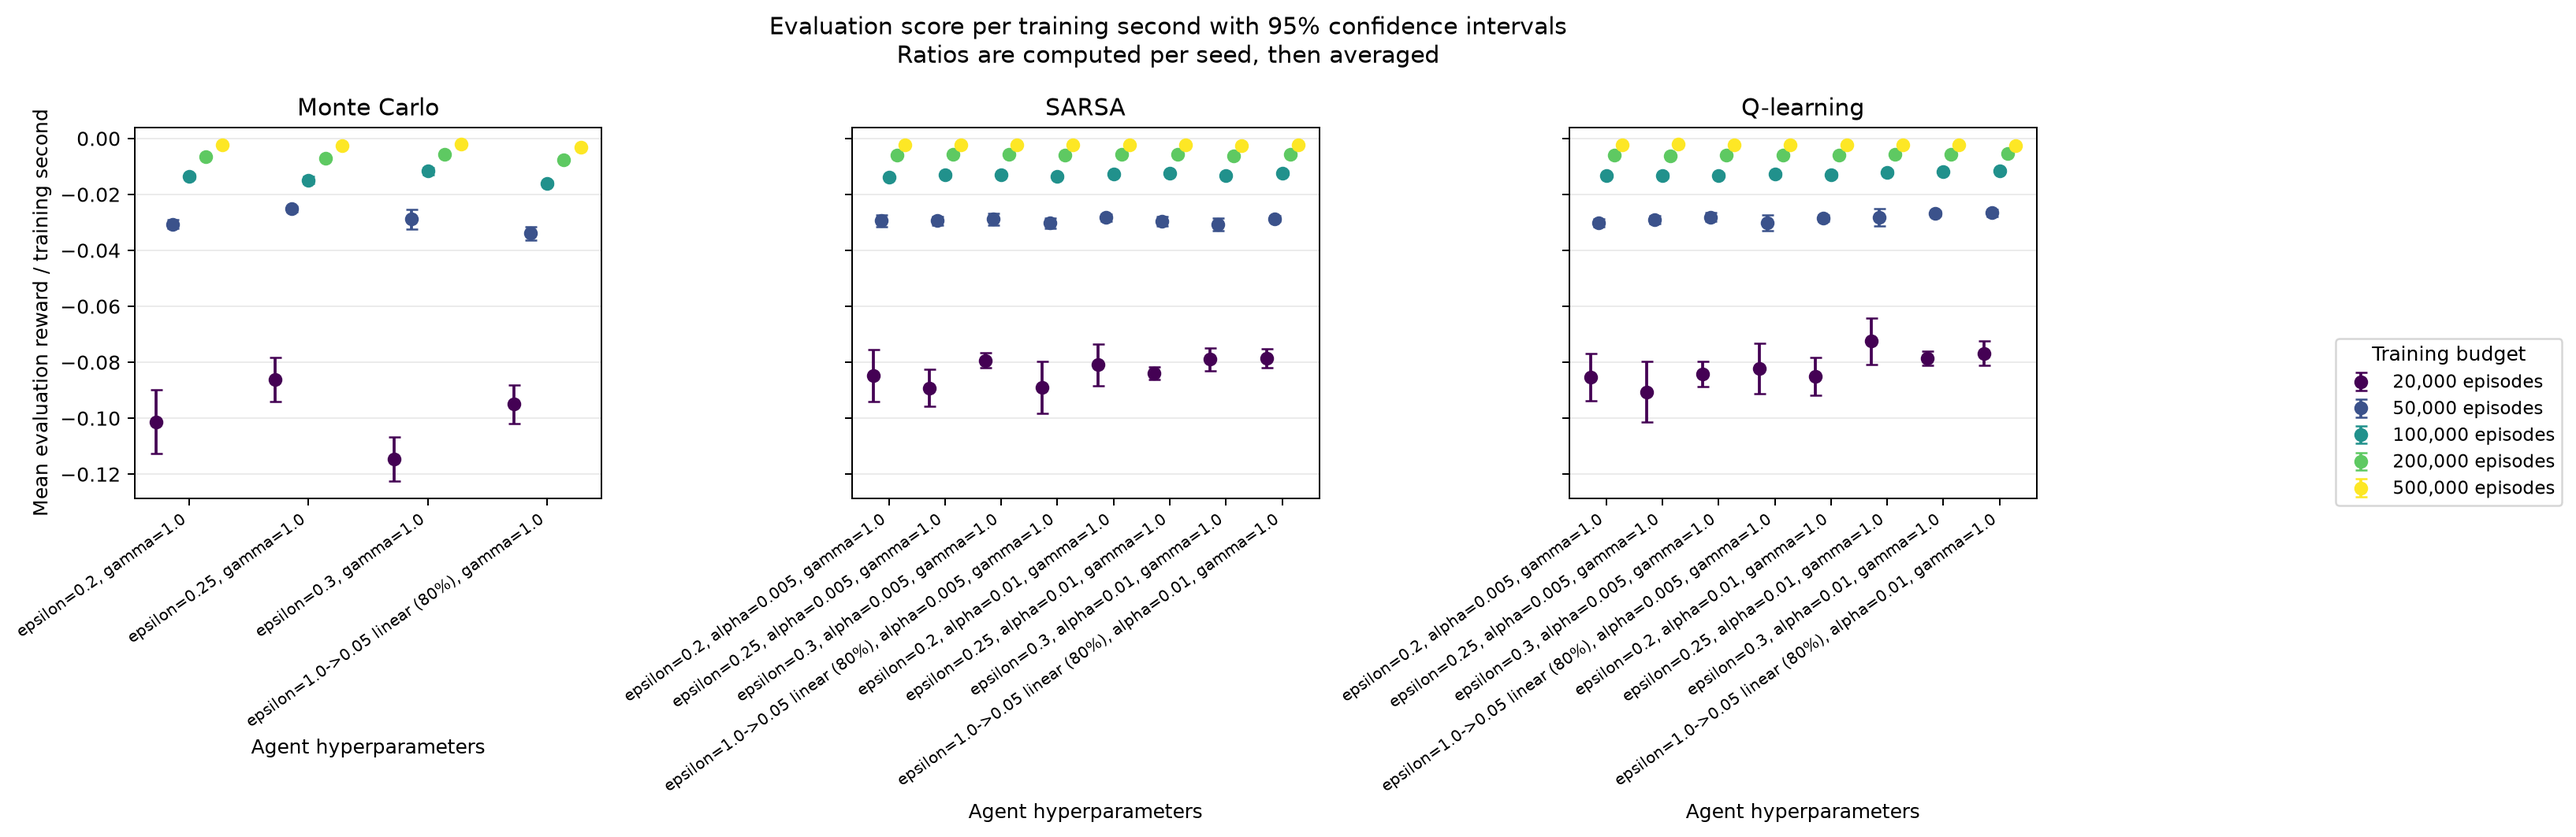
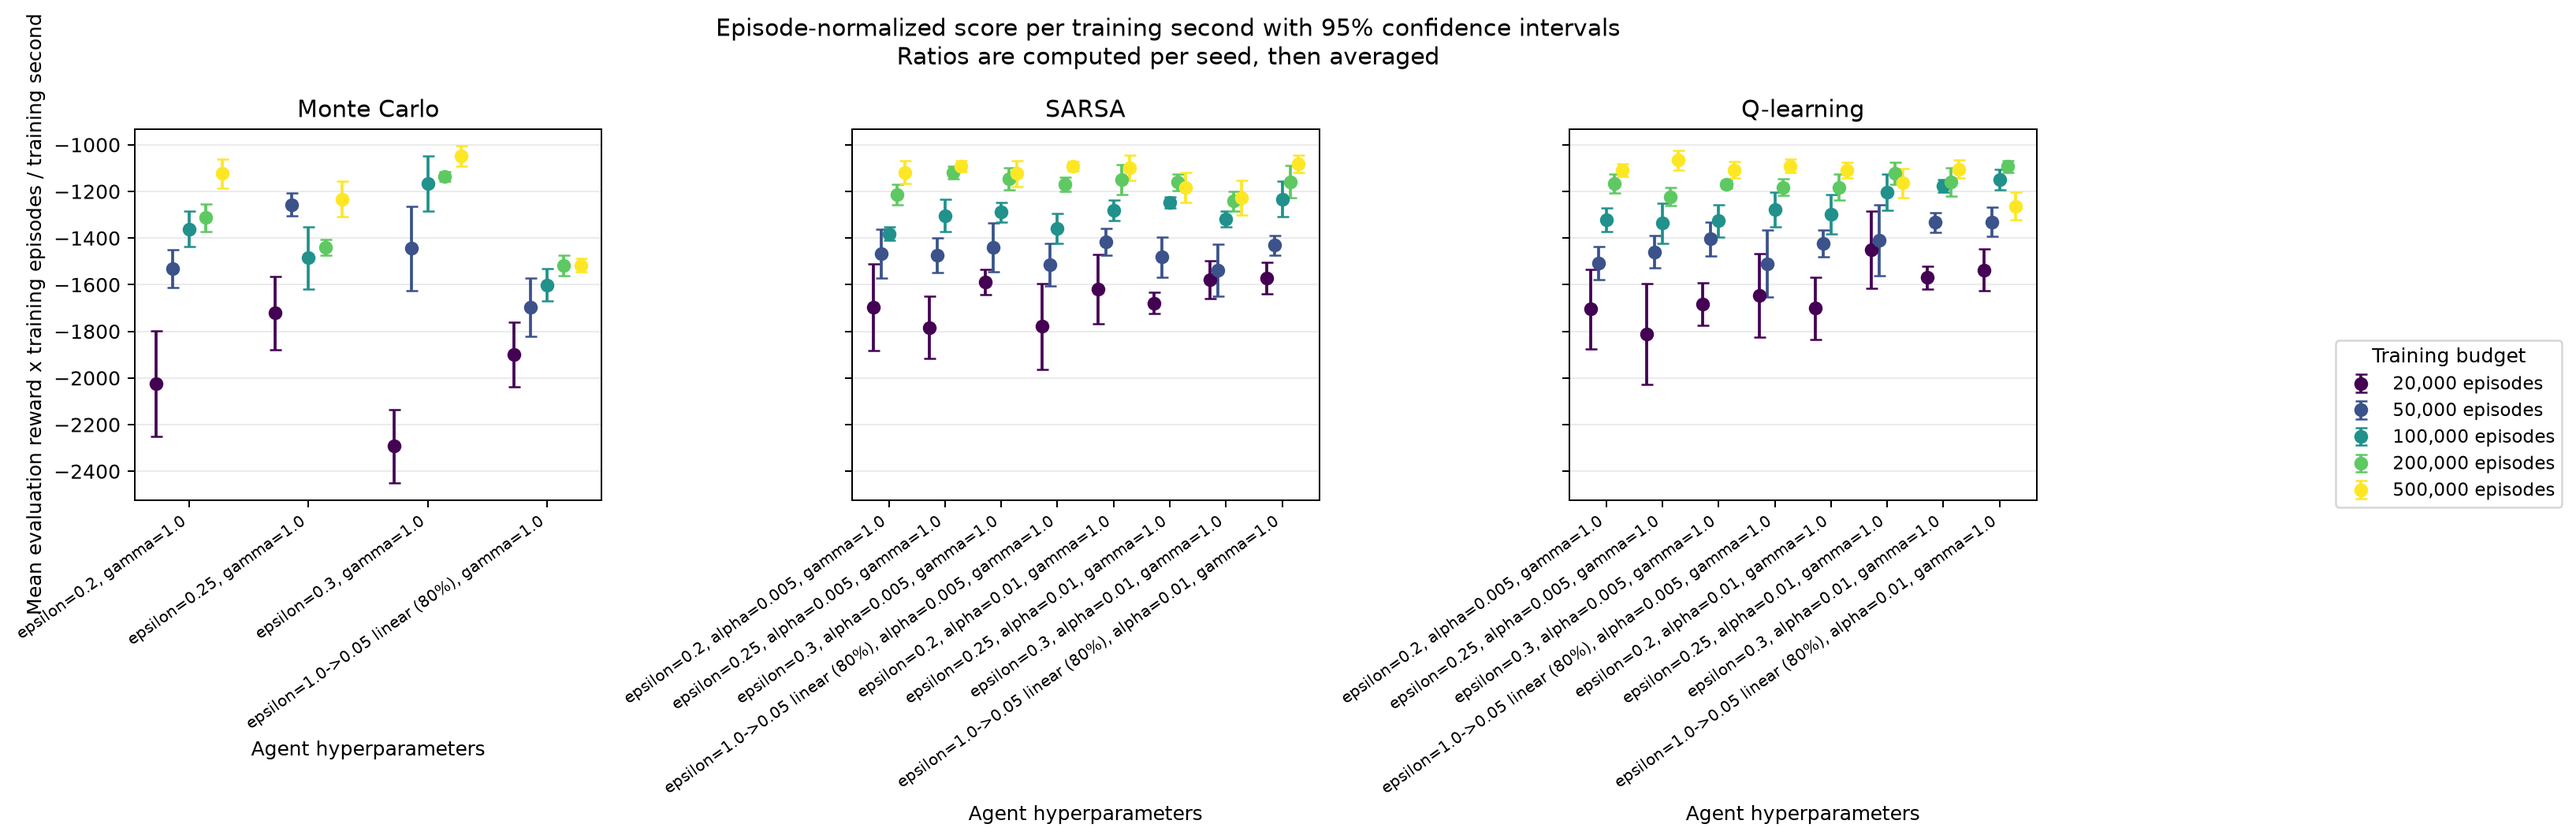
🔧Update analysis metrics to reflect episode-normalized evaluation rewards and adjust related documentation

diff --git a/src/analyze.py b/src/analyze.py
@@ -162,12 +162,17 @@ def _paired_comparison(
 
 
 def _score_per_training_second(
-    configuration_id: str, runs: list[dict[str, Any]]
+    configuration_id: str,
+    training_episodes: int,
+    runs: list[dict[str, Any]],
 ) -> dict[str, float | int | list[float]]:
-    """Summarize per-seed evaluation reward divided by training seconds."""
+    """Summarize per-seed reward/time multiplied by training episodes."""
     ratios = [
-        float(run["evaluation"]["mean_reward"])
-        / float(run["training"]["seconds"])
+        (
+            float(run["evaluation"]["mean_reward"])
+            / float(run["training"]["seconds"])
+            * training_episodes
+        )
         for run in runs
         if run.get("status") == "completed"
         and run["configuration_id"] == configuration_id
@@ -461,7 +466,7 @@ def plot_performance_vs_training_time(
                 if item is None:
                     continue
                 score = _score_per_training_second(
-                    item["configuration_id"], runs
+                    item["configuration_id"], int(item["training_episodes"]), runs
                 )
                 value = float(score["mean"])
                 lower, upper = score["confidence_interval_95"]
@@ -482,7 +487,9 @@ def plot_performance_vs_training_time(
         axis.set_xlabel("Agent hyperparameters")
         axis.grid(axis="y", alpha=0.25)
 
-    axes[0][0].set_ylabel("Mean evaluation reward / training second")
+    axes[0][0].set_ylabel(
+        "Mean evaluation reward x training episodes / training second"
+    )
     handles, legend_labels = axes[0][-1].get_legend_handles_labels()
     figure.legend(
         handles,
@@ -494,7 +501,7 @@ def plot_performance_vs_training_time(
         fontsize=9,
     )
     figure.suptitle(
-        "Evaluation score per training second with 95% confidence intervals\n"
+        "Episode-normalized score per training second with 95% confidence intervals\n"
         "Ratios are computed per seed, then averaged"
     )
     figure.tight_layout(rect=(0, 0, 0.88, 1))
@@ -722,13 +729,13 @@ def build_report(summary: dict[str, Any], summary_path: Path) -> str:
             (
                 "This chart uses the same hyperparameter axis as the configuration-performance "
                 "plot. For each seed, the evaluation mean reward is divided by that run's "
-                "training time; points and 95% intervals summarize those per-seed ratios."
+                "training time and multiplied by its training episode count; points and 95% "
+                "intervals summarize those per-seed values."
             ),
             "",
             (
-                "Because Blackjack rewards are negative, this literal ratio is descriptive: "
-                "a slower run can move the value closer to zero even without improving reward. "
-                "Model selection therefore remains based only on mean evaluation reward."
+                "Because Blackjack rewards are negative, this literal metric remains descriptive. "
+                "Model selection remains based only on mean evaluation reward."
             ),
             "",
             "![Training time](training_time.png)",

diff --git a/tests/test_analyze.py b/tests/test_analyze.py
@@ -100,10 +100,12 @@ class AnalyzeTests(unittest.TestCase):
         for run, seconds in zip(self.runs[:2], [2.0, 4.0], strict=True):
             run["training"] = {"seconds": seconds}
 
-        score = _score_per_training_second("mc_0", self.runs)
+        score = _score_per_training_second("mc_0", 100, self.runs)
 
         self.assertEqual(score["count"], 2)
-        self.assertAlmostEqual(score["mean"], (-0.08 / 2.0 - 0.06 / 4.0) / 2.0)
+        self.assertAlmostEqual(
+            score["mean"], (-0.08 / 2.0 * 100 - 0.06 / 4.0 * 100) / 2.0
+        )
 
     def test_report_contains_result_and_interpretation_sections(self) -> None:
         report = build_report(self.summary, Path("summary.json"))
@@ -115,7 +117,7 @@ class AnalyzeTests(unittest.TestCase):
         self.assertIn("sample_efficiency.png", report)
         self.assertIn("training_time.png", report)
         self.assertIn("performance_vs_training_time.png", report)
-        self.assertIn("evaluation mean reward is divided", report)
+        self.assertIn("multiplied by its training episode count", report)
         self.assertIn("stick-on-17", report)
         self.assertIn("Sutton", report)
 

diff --git a/README.md b/README.md
@@ -139,11 +139,12 @@ figures: a point-and-confidence-interval comparison of every configuration, a
 sample-efficiency plot of reward against training episodes, and a training-time
 scaling plot. The fourth figure keeps the same per-algorithm hyperparameter axis
 as the configuration-performance plot and reports evaluation mean reward divided
-by training seconds. The ratio is computed independently for each training seed
-and then summarized with a 95% confidence interval. Win rate remains in the
-report and CSV as a secondary diagnostic, but is not given a separate plot
-because mean reward is the primary objective. With `latest`, the most recently
-modified sweep summary is selected automatically.
+by training seconds and multiplied by the training episode count. The metric is
+computed independently for each training seed and then summarized with a 95%
+confidence interval. Win rate remains in the report and CSV as a secondary
+diagnostic, but is not given a separate plot because mean reward is the primary
+objective. With `latest`, the most recently modified sweep summary is selected
+automatically.
 
 ## Final million-episode comparison
 

diff --git a/results/sweeps/blackjack_refined_grid_20260820T091421Z/analysis/analysis.md b/results/sweeps/blackjack_refined_grid_20260820T091421Z/analysis/analysis.md
@@ -39,9 +39,9 @@ Each point is a separately trained agent at that episode budget. Higher reward w
 
 ![Performance versus training cost](performance_vs_training_time.png)
 
-This chart uses the same hyperparameter axis as the configuration-performance plot. For each seed, the evaluation mean reward is divided by that run's training time; points and 95% intervals summarize those per-seed ratios.
+This chart uses the same hyperparameter axis as the configuration-performance plot. For each seed, the evaluation mean reward is divided by that run's training time and multiplied by its training episode count; points and 95% intervals summarize those per-seed values.
 
-Because Blackjack rewards are negative, this literal ratio is descriptive: a slower run can move the value closer to zero even without improving reward. Model selection therefore remains based only on mean evaluation reward.
+Because Blackjack rewards are negative, this literal metric remains descriptive. Model selection remains based only on mean evaluation reward.
 
 ![Training time](training_time.png)
 
